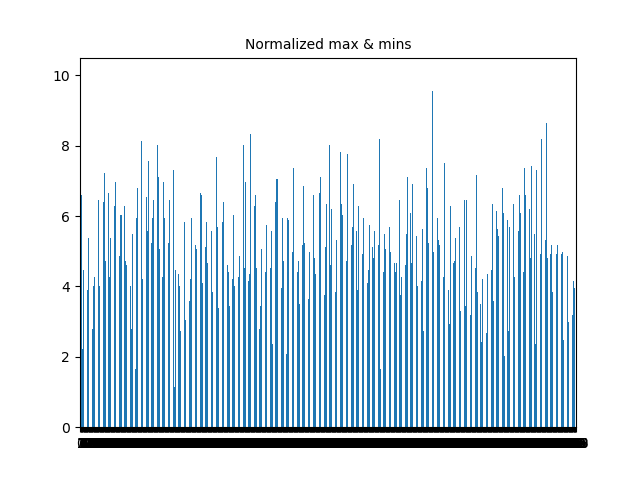
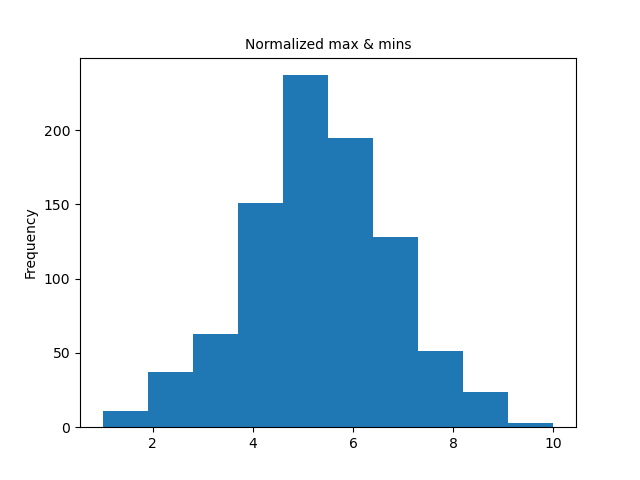
4to6added to visualizations_Goodreads

diff --git a/good_reads_visulisation.py b/good_reads_visulisation.py
@@ -37,3 +37,39 @@ def alt_plot_for_Awards_ratings():
     plt.ylabel("Mean Rating")
     plt.xlabel("Award Count")
     plt.show()
+
+
+#Question 4
+
+def vis_norm_max_min(da):
+
+    da["norm_max_min"].plot.hist( rot=0)
+
+    plt.title('Normalized max & mins', fontsize=10)
+
+    plt.savefig("plot_simple_histogramme_matplotlib_01.png")
+
+    plt.show()
+
+#Question 5
+
+def vis_mean_norm(da):
+    da["norm_mean"].plot.hist(x='books', y='normalized means', rot=0)
+
+    plt.title('Normalized means', fontsize=10)
+
+    plt.savefig("plot_simple_histogramme_matplotlib_02.png")
+
+    plt.show()
+
+#Question 6
+
+def vis_all_norm(da):
+
+    df = da[["norm_mean","norm_max_min"]]
+    df.plot.hist(rot=0)
+    plt.show()
+
+#vis_norm_max_min(da)
+#vis_mean_norm(da)
+#vis_all_norm(da)

diff --git a/visualIzations 4to6.py b/visualIzations 4to6.py
@@ -6,7 +6,7 @@ da = pd.read_csv('data/analyse_this.csv')
 
 def vis_norm_max_min(da):
 
-    da["norm_max_min"].plot.bar( rot=0)
+    da["norm_max_min"].plot.hist( rot=0)
 
     plt.title('Normalized max & mins', fontsize=10)
 
@@ -15,7 +15,7 @@ def vis_norm_max_min(da):
     plt.show()
 
 def vis_mean_norm(da):
-    da["norm_mean"].plot.bar(x='books', y='normalized means', rot=0)
+    da["norm_mean"].plot.hist(x='books', y='normalized means', rot=0)
 
     plt.title('Normalized means', fontsize=10)
 
@@ -26,9 +26,9 @@ def vis_mean_norm(da):
 def vis_all_norm(da):
 
     df = da[["norm_mean","norm_max_min"]]
-    df.plot.bar(rot=0)
+    df.plot.hist(rot=0)
     plt.show()
 
-#vis_norm_max_min(da)
-#vis_mean_norm(da)
+vis_norm_max_min(da)
+vis_mean_norm(da)
 vis_all_norm(da)
